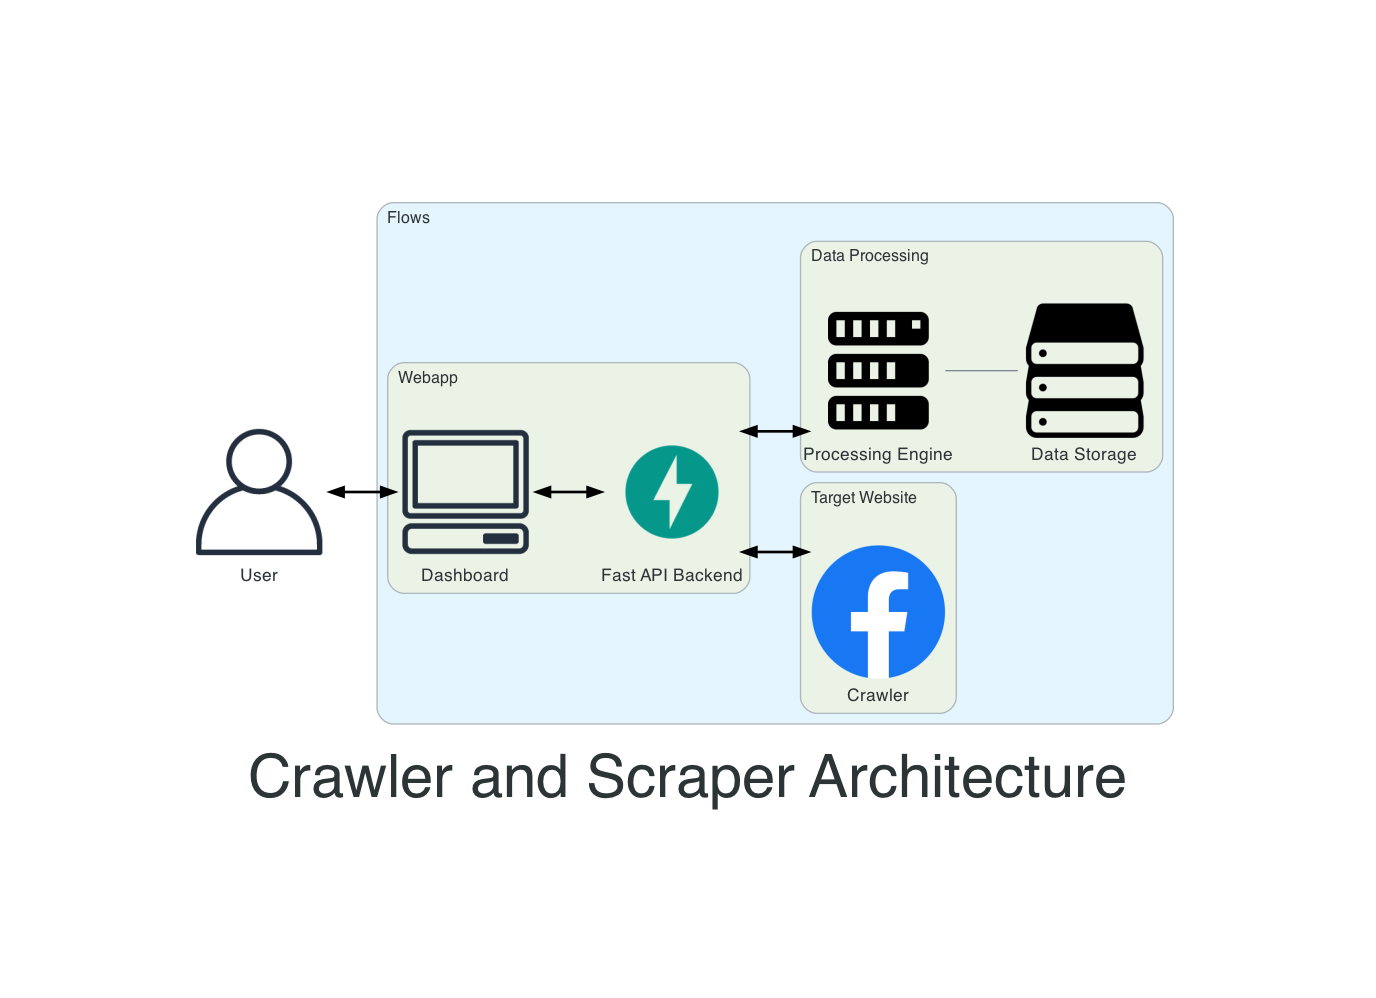
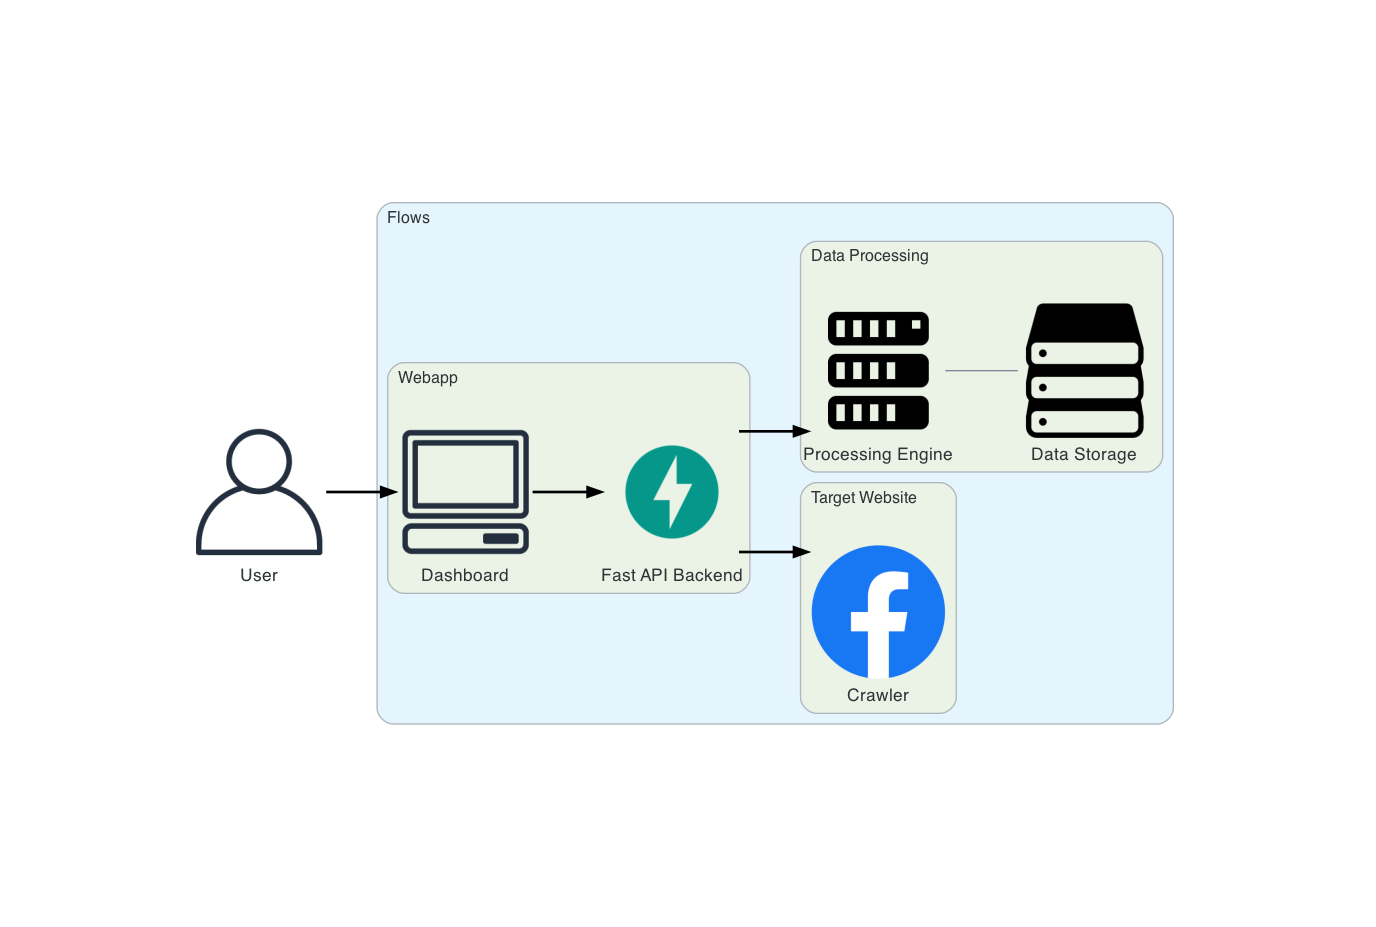
update picture

Changed region(s): [[0.125, 0.1812, 0.875, 0.8155], [0.7188, 0.302, 0.8438, 0.5135]]

diff --git a/tools/diagram.py b/tools/diagram.py
@@ -1,53 +1,49 @@
 # diagram.py
-from diagrams import Diagram
-from diagrams import Cluster, Diagram, Edge
-
-# from diagrams.custom import Custom
+from diagrams import Diagram, Cluster, Edge
 from diagrams.programming.framework import Fastapi
 from diagrams.saas.social import Facebook
 from diagrams.onprem.client import User, Client
 from diagrams.generic.storage import Storage
-from diagrams import Cluster
 from diagrams.onprem.compute import Server
 
-
-# from diagrams.generic.process import Process
+# Define the attributes for the graph
 graph_attr = {"fontsize": "45"}
+
+# Create the diagram
 with Diagram(
-    "Crawler and Scraper Architecture",
+    "",
     show=False,
     direction="LR",
     graph_attr=graph_attr,
     filename="assets/media/diagram",
 ):
-    # Define the Streamlit dashboard as a user interface
+    # Define the user interface component
     user = User("User")
 
-    # Define the connections
+    # Define the connection style
     edge = Edge(color="black", style="bold")
 
+    # Define the clusters for the architecture components
     with Cluster("Flows"):
         with Cluster("Webapp"):
-            # Define
+            # Define the client dashboard
             client = Client("Dashboard")
-
             # Define the FastAPI backend
             fast_api = Fastapi("Fast API Backend")
-        with Cluster("Target Website"):
 
+        with Cluster("Target Website"):
             # Define the Facebook Marketplace crawler
             facebook_crawler = Facebook("Crawler")
 
         with Cluster("Data Processing"):
             # Define the data processing component
             data_processing = Server("Processing Engine")
-
             # Define the CSV file storage
             csv_storage = Storage("Data Storage")
 
-    client >> edge << fast_api
-    (fast_api >> edge << facebook_crawler)
+    # Define the relationships between components
     user >> edge >> client
-    data_processing - csv_storage
-    # (csv_storage >> edge >> client)
+    client >> edge >> fast_api
+    fast_api >> edge >> facebook_crawler
     fast_api >> edge >> data_processing
+    data_processing - csv_storage

diff --git a/README.md b/README.md
@@ -1,10 +1,10 @@
-# Crawler and Scraper of Facebook Marketplace Post's : CSS or LLM
+# Crawler and Scraper of Marketplace Post's using CSS or LLM
 
 ![](assets/media/diagram.png)
 
 ## Backend
 
-A FastAPI consist of accessing posts published in Facebook marketplace and return the data to the frontend FastAPI
+A FastAPI consist of accessing posts published in marketplace and return the data to the frontend FastAPI
 
 ## Frontend
 
